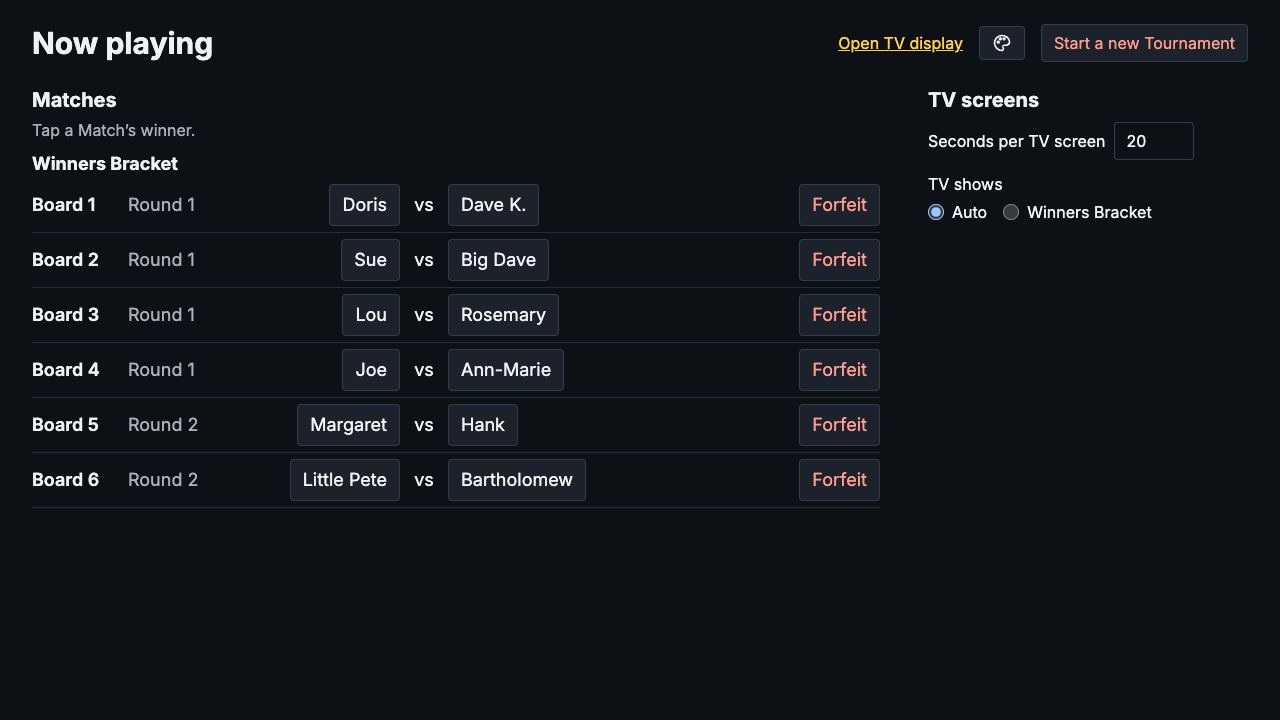
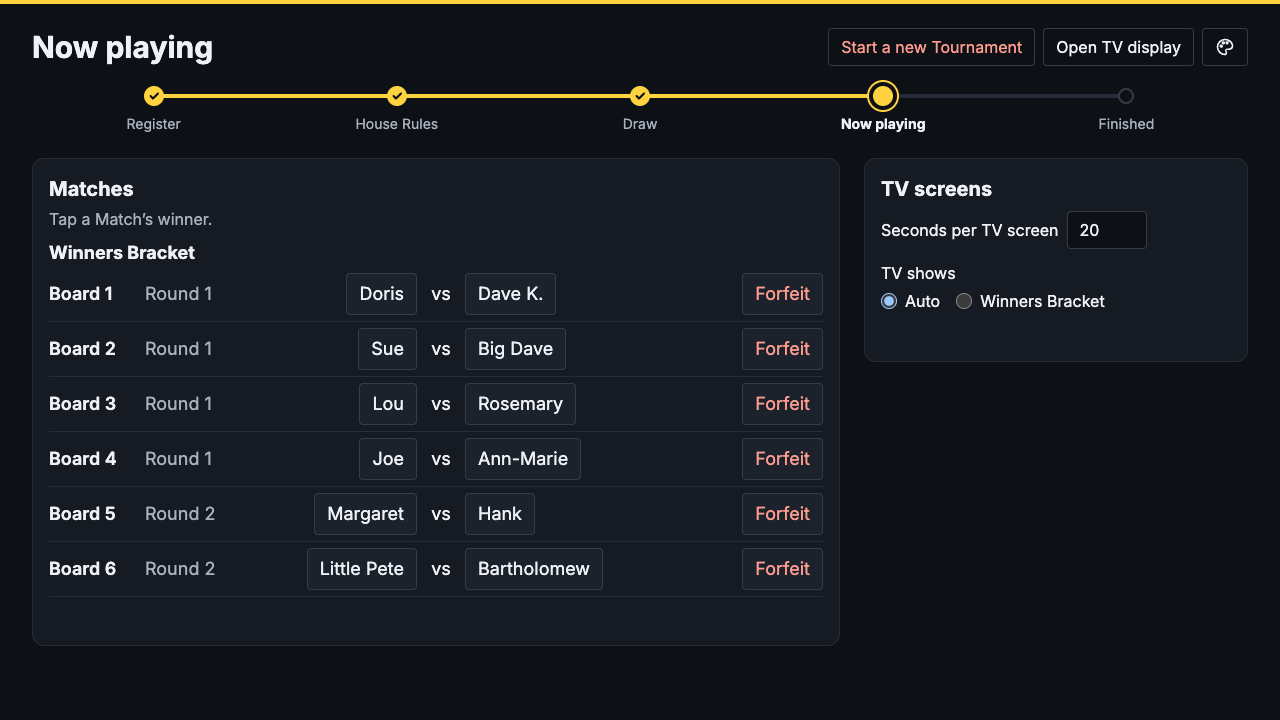
Apply the #95 retro: find list items in their list, README shot, re-runnable deploy (#108)
* Apply the #95 retro: find list items in their list, sips crop note, README shot

A lint rule refuses a list item looked up across the whole page or its
main landmark, since any list added there, such as the step bar,
changes what it finds. The run-app skill notes that sips crops from the
centre at offset 0 0, and records the README Now playing shot's options.
The README shot is retaken in the new frame.

* Name the Pages artifact for its run attempt, so a re-run deploy succeeds

Re-running a failed deploy job uploaded a second github-pages artifact
into the same run, and deploy-pages refuses when it finds two.

* Apply the retro review: playersList, findHouseRulesList, lint rule wording

---------

diff --git a/src/display/Display.test.tsx b/src/display/Display.test.tsx
@@ -65,7 +65,8 @@ describe('the display route', () => {
 		act(() => store.save(registered.value));
 
 		expect(screen.getByText('1 Player registered')).toBeInTheDocument();
-		expect(screen.getAllByRole('listitem').map((item) => item.textContent)).toEqual([
+		const playersList = within(screen.getByRole('list', { name: 'Players' }));
+		expect(playersList.getAllByRole('listitem').map((item) => item.textContent)).toEqual([
 			'Big Dave',
 		]);
 	});
@@ -208,7 +209,8 @@ describe('the House Rules screen', () => {
 
 		expect(readHeading()).toBe('House Rules');
 		expect(screen.getByText('1 Player tonight')).toBeInTheDocument();
-		expect(screen.queryAllByRole('listitem')).toEqual([]);
+		expect(screen.queryByRole('list', { name: 'Players' })).not.toBeInTheDocument();
+		expect(listHouseRulesText()).toEqual([]);
 
 		const backAtRegistration = expectOk(goBackToRegistration(store.load()!));
 		const withLateArrival = expectOk(registerPlayer(backAtRegistration, 'Sue'));
@@ -725,12 +727,20 @@ const saveOutcome = (store: Store<Tournament>, outcome: Result<Tournament>) => {
 	act(() => store.save(expectOk(outcome)));
 };
 
+// The list of House Rules the TV shows, to look inside.
+const findHouseRulesList = () => within(screen.getByRole('list', { name: 'House Rules' }));
+
 // The House Rules the TV shows, in order.
-const listHouseRulesText = () => screen.queryAllByRole('listitem').map((item) => item.textContent);
+const listHouseRulesText = () =>
+	findHouseRulesList()
+		.queryAllByRole('listitem')
+		.map((item) => item.textContent);
 
 // The House Rule shown last, which the TV emphasizes.
 const findLatestHouseRule = () =>
-	screen.getAllByRole('listitem').find((item) => item.getAttribute('aria-current') === 'true');
+	findHouseRulesList()
+		.getAllByRole('listitem')
+		.find((item) => item.getAttribute('aria-current') === 'true');
 
 const readHeading = () => screen.getByRole('heading', { level: 1 }).textContent;
 

diff --git a/eslint.config.js b/eslint.config.js
@@ -92,6 +92,17 @@ export default defineConfig([
 						'VariableDeclarator[id.name=/^render[A-Z]/] > ArrowFunctionExpression',
 					message: 'Make this its own component instead of a renderX helper.',
 				},
+				/*
+				 * A list item looked up on a window (`page`, `organizer` or `tv` in Playwright, `screen` in Testing
+				 * Library) or on its main landmark, rather than inside its own list. Every list there counts, so a
+				 * list added anywhere, such as the step bar, changes what it finds.
+				 */
+				{
+					selector:
+						"CallExpression[callee.property.name=/ByRole$/][arguments.0.value='listitem']:matches([callee.object.name=/^(page|organizer|tv|screen)$/], [callee.object.arguments.0.value='main'])",
+					message:
+						'Find list items inside their named list: look the list up by role and name first, then its items inside it.',
+				},
 				// A row that works anything out, such as its own callbacks, is a component, not a map body.
 				{
 					selector:

diff --git a/src/display/HouseRules.tsx b/src/display/HouseRules.tsx
@@ -22,7 +22,10 @@ export const HouseRules = ({ tournament }: { tournament: Tournament }) => {
 				{describePlayersTonight(tournament.players.length)}
 			</p>
 			{/* A rule too long for one line has its lines balanced to about the same length. */}
-			<ol className="list-decimal space-y-[3vh] pl-[3vw] text-[5.5vh] leading-tight text-balance">
+			<ol
+				aria-label="House Rules"
+				className="list-decimal space-y-[3vh] pl-[3vw] text-[5.5vh] leading-tight text-balance"
+			>
 				{shownRules.map((rule, index) => (
 					<HouseRule key={rule} rule={rule} isLatest={index === latestIndex} />
 				))}

diff --git a/e2e/organizer-long-lists.spec.ts b/e2e/organizer-long-lists.spec.ts
@@ -132,7 +132,10 @@ test.describe('Registering a long field', () => {
 		await playerName.fill('Zebedee Newcomer');
 		await playerName.press('Enter');
 
-		const newRow = page.getByRole('listitem').filter({ hasText: 'Zebedee Newcomer' });
+		const newRow = page
+			.getByRole('list', { name: 'Players' })
+			.getByRole('listitem')
+			.filter({ hasText: 'Zebedee Newcomer' });
 		await expectWhollyOnScreen([newRow]);
 		await expect(playerName).toBeFocused();
 		await expectPageDoesNotScroll(page);

diff --git a/e2e/swap-mode.spec.ts b/e2e/swap-mode.spec.ts
@@ -16,7 +16,8 @@ test.use({ viewport: { width: 1280, height: 720 } });
  */
 const listDrawScreenParts = (page: Page) => [
 	page.getByRole('button', { name: /^(Swap Players|Done)$/ }),
-	page.getByRole('main').getByRole('listitem'),
+	findMatchesOnBoards(page).getByRole('listitem'),
+	page.getByRole('list', { name: 'Waiting for a Board' }).getByRole('listitem'),
 	page.getByRole('button', { name: 'Start', exact: true }),
 	page.getByRole('heading', { name: 'TV screens' }),
 ];

diff --git a/e2e/two-windows.spec.ts b/e2e/two-windows.spec.ts
@@ -31,7 +31,7 @@ test('the TV shows each change the Organizer makes, live, and both windows resum
 	const tv = await context.newPage();
 	watchConsole(tv, consoleErrors);
 	await tv.goto('/display');
-	const tvNames = tv.getByRole('listitem');
+	const tvNames = tv.getByRole('list', { name: 'Players' }).getByRole('listitem');
 	const playerRows = organizer.getByRole('list', { name: 'Players' }).getByRole('listitem');
 
 	await register(organizer, 'Dave K');

diff --git a/.claude/skills/run-app/SKILL.md b/.claude/skills/run-app/SKILL.md
@@ -15,7 +15,7 @@ PLAYERS=29 BOARDS=16 DRAW=1 START=1 npm run screens
 
 Each option takes the screenshots further through the night; the script's header comment lists every option and the file names it writes. Images land in `test-results/screens/` (gitignored), one per moment the script reaches. `npm run e2e` empties `test-results/` when it starts, so take screenshots after it, or copy them out first. Shoot the field sizes at the edges of the change: the largest field (32 fills every Board card) and an odd one where a Player waits for a winner (21).
 
-A whole TV screenshot is costly to open, and judging a screen from across the room needs only half its size. Open a half-size copy first (`sips -Z 960 test-results/screens/tv-draw.png --out <scratchpad>/tv-draw-small.png`), and a crop when checking one detail, such as whether a long name is cut (`sips -c <height> <width> --cropOffset <y> <x> <file> --out <crop>`: height before width, y before x). Open the full image only for what those can't show.
+A whole TV screenshot is costly to open, and judging a screen from across the room needs only half its size. Open a half-size copy first (`sips -Z 960 test-results/screens/tv-draw.png --out <scratchpad>/tv-draw-small.png`), and a crop when checking one detail, such as whether a long name is cut (`sips -c <height> <width> --cropOffset <y> <x> <file> --out <crop>`: height before width, y before x; an offset of `0 0` crops from the centre, so take the top edge from `1 0`). Open the full image only for what those can't show.
 
 When the change shows a moment the script doesn't reach yet (a Forfeit, the Losers Bracket), add that step to `screens/screens.spec.ts` behind its own variable, so the script grows with the app.
 
@@ -51,7 +51,7 @@ A PR that changes a screen shows it, before and after, in its Evidence section. 
     ```
 
 4. Paste the printed table into the PR's Evidence section in place of the `pr` skill template's **Before** and **After** lines, under a sentence on the field size and what to look for. A table's cells shrink each shot to about half its width, so name any detail too small to see there (a name cut short, a text size); a click opens the full image.
-5. Retake each image in `docs/images/` (the README's screenshots) that shows a changed screen, from the branch, and commit it to the PR.
+5. Retake each image in `docs/images/` (the README's screenshots) that shows a changed screen, from the branch, and commit it to the PR. `organizer-now-playing.png` is `organizer-started.png` from `PLAYERS=12 BOARDS=6 DRAW=1 START=1 SCHEME=dark`.
 6. Remove the worktree with `git worktree remove <scratchpad>/main`, so the next before can be shot there.
 
 Done when every screen the PR changes has a before and an after in the PR body ("New screen" in the before cell for a screen that is new), every `docs/images/` shot of a changed screen is retaken, and `git worktree list` shows no `<scratchpad>/main`.
